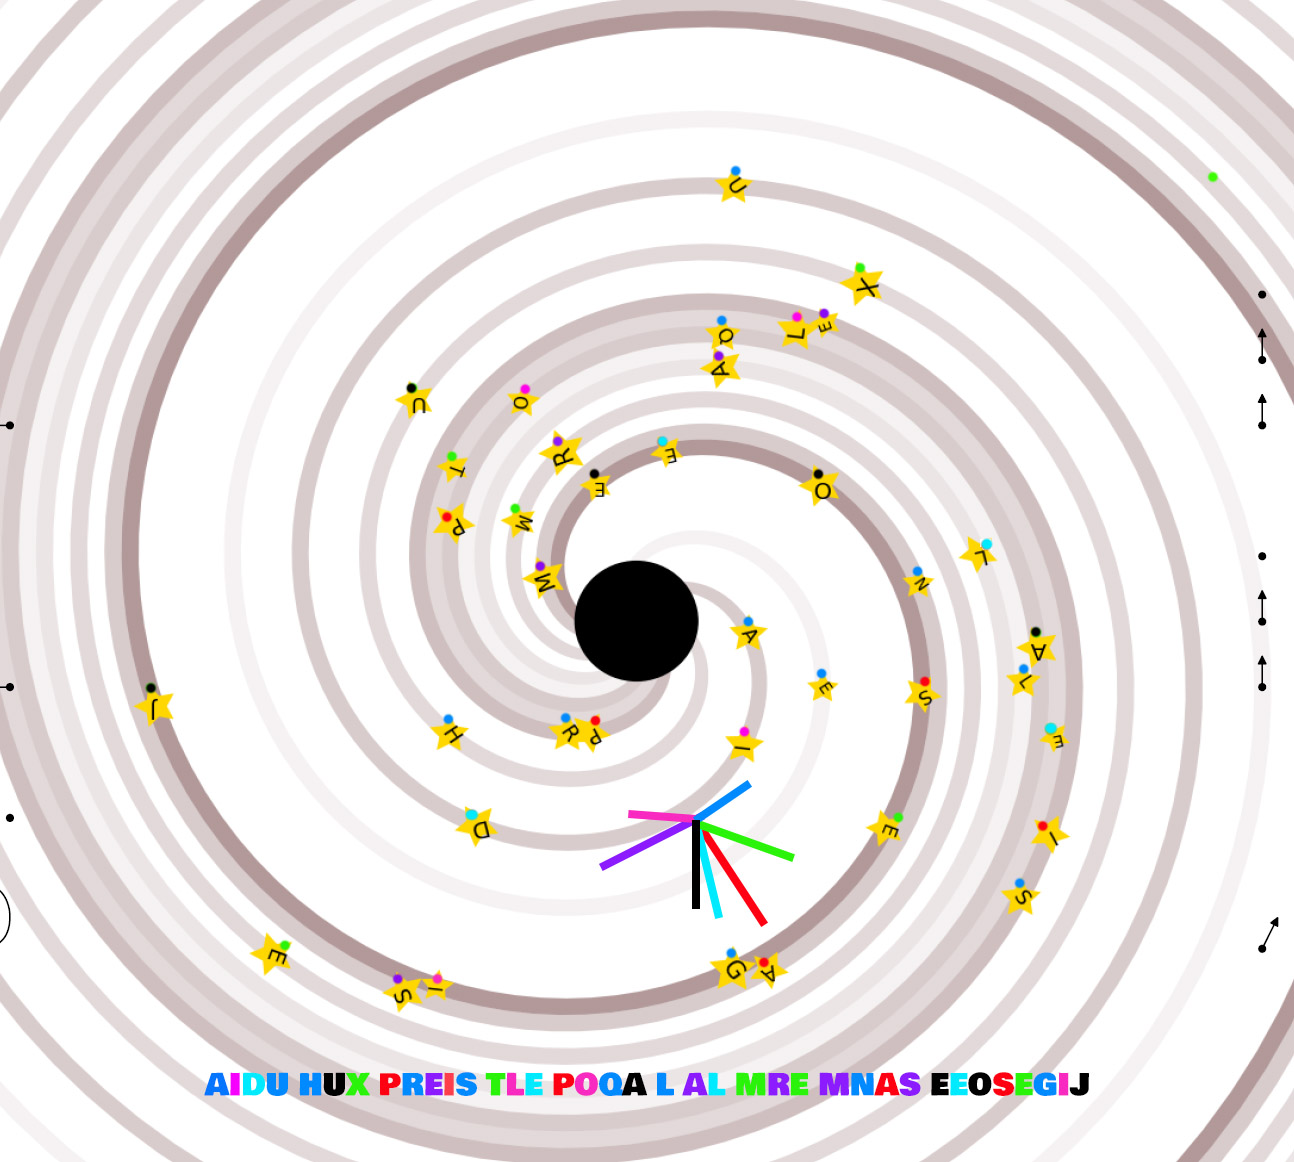
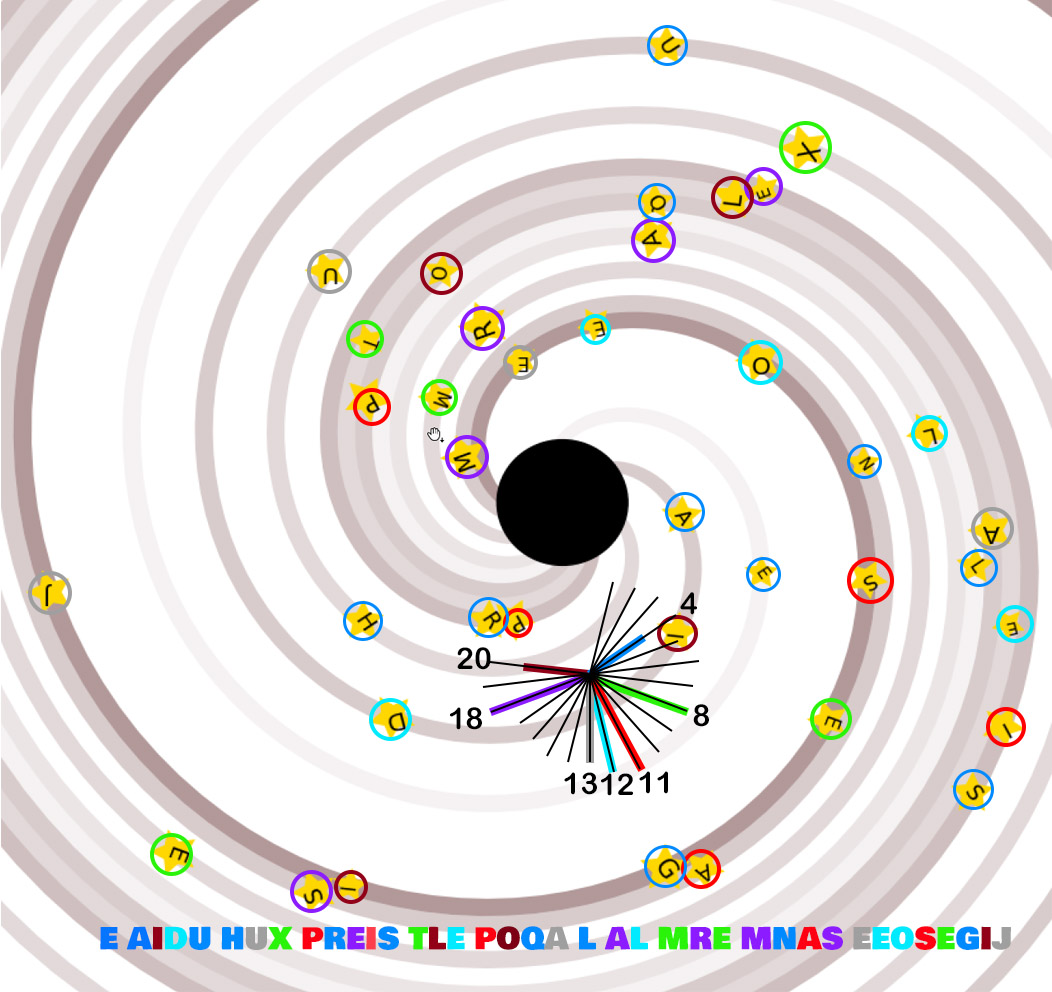
Blocked on 37

diff --git a/wiki/P37.md b/wiki/P37.md
@@ -5,14 +5,21 @@ Trouvez et répondez à la question suivante
 
 ## Analyse
 
-Les lettres semblent facilement pouvoir se remettre dans l'ordre en suivant les bras de la spirale. On trouve alors:
+Les lettres semblent pouvoir se remettre dans l'ordre en suivant les bras de la spirale. On trouve alors:
 
-**AIDU HUX PREIS TLE POQA L AL MRE MNAS EEOSEGIJ**
+**E AIDU HUX PREIS TLE POQA L AL MRE MNAS EEOSEGIJ**
 
 Par contre, le tout semble codé. Comme les lettres sont dessinées suivant des angles différents, on peut penser à une rotation de lettre, le nombre de pas dépendant de l'angle de la lettre. Voici une image qui met un peu de couleur bienvenue dans tout ça:
 
 ![Galxy](37-Galaxy.jpg)
 
-from Baudouin: il y a aussi la taille des lettres qui comptent en déplaise à ton épouse...
+Si l'on divise 360° en 26, on obtient des pas de 13,8°. J'ai dessiné ces orientations sur la figure, et on peut alors constater que les lettres sont très précisémment orientées selon certains de ses multiples.
 
-A suivre
+Malheureusement, ça ne donne rien du tout en appliquant ces rotations. Selon que je tourne dans un sens ou dans l'autre, j'obtiens
+
+* AWORQDHPENMXOLRSEUMNHIZEZWUJPARSCHWCOW, ou
+* IECPYLHFAVWTWBFQAIUNPSXUJMERLKRQADMKCW
+
+**Baudouin:/** il y a aussi la taille des lettres qui comptent en déplaise à ton épouse...
+
+**JS:/** Certes mais je ne vois pas quoi faire avec.

diff --git a/README.md b/README.md
@@ -70,7 +70,7 @@ La table ci dessous permet d'avoir un aperçu rapide de l'état d'avancement. De
 |[34 - wiki](wiki/P34.md) | Diamant                               |  OK  | 4 |                      |
 |[35 - wiki](wiki/P35.md) | Ruche                                 |  OK  | 2 |                      |
 | 36                      | Roulette                              |      | 1 |                      |
-|[37 - wiki](wiki/P37.md) | Galaxy                                | IDEE | 2 |                      |
+|[37 - wiki](wiki/P37.md) | Galaxy                                | HELP | 2 |                      |
 |[38 - wiki](wiki/P38.md) | Automate cellulaire                   |  OK  | 3 | [lien](code/P38.py)  |
 |[39 - wiki](wiki/P39.md) | Raiponce et ses tresses               |  OK  | 4 | [lien](code/P39.py)  |
 |[40 - wiki](wiki/P40.md) | Arbres numériques                     | HELP | 4 |                      |
